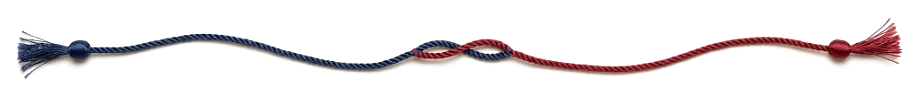
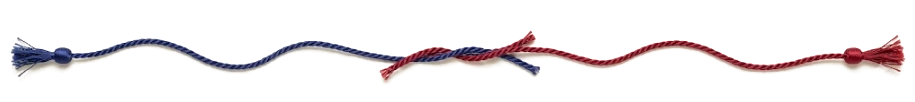
청실홍실 — 비단 결 그대로, 가운데는 매듭 말고 느슨히 감긴 꼬임(6번째 줄 결)

Changed region(s): [[0.0, 0.1765, 1.0, 0.8235], [0.0, 0.2941, 0.0306, 0.3235]]

diff --git a/src/components/InyeonThread.tsx b/src/components/InyeonThread.tsx
@@ -5,12 +5,12 @@ const silk = (g: G) => g === "m" ? "#3b4a8f" : g === "f" ? "#b0233f" : "#a08550"
 const label = (g: G, other: G) => g && g === other ? "도반" : g === "m" ? "청실" : g === "f" ? "홍실" : "실";
 
 // 형이 고른 끈 — 왼쪽 청실·오른쪽 홍실이 가운데서 느슨하게 꼬인다. 끝은 둥근 매듭 + 술(「너의 이름은」 끈).
-// 제미나이로 비단 땋은 끈 결로 뽑아 바탕만 걷었다(public/obj/silk-cord.webp, 918×106, 바탕 투명)
+// 제미나이로 비단 땋은 끈 결로 뽑아 바탕만 걷었다(public/obj/silk-cord.webp, 915×102, 바탕 투명 — 가운데는 매듭 없이 두 바퀴 반 느슨히 감김(형: 6번째 줄 결))
 export function SilkKnot({ compact = false }: { compact?: boolean; left?: string; right?: string }) {
   if (compact) {
     // 목록·글 머리의 작은 표 — 같은 끈의 가운데 꼬인 자리만
-    return <svg viewBox="392 34 136 40" className="silk-knot-small" aria-hidden="true">
-      <image href="/obj/silk-cord.webp" width="918" height="106" />
+    return <svg viewBox="372 26 176 56" className="silk-knot-small" aria-hidden="true">
+      <image href="/obj/silk-cord.webp" width="915" height="102" />
     </svg>;
   }
   // eslint-disable-next-line @next/next/no-img-element

diff --git a/src/components/inyeon-thread.css b/src/components/inyeon-thread.css
@@ -5,4 +5,4 @@
 .inyeon-silk-names>span {display:flex;align-items:center;gap:8px;min-width:0;overflow:hidden;text-overflow:ellipsis;white-space:nowrap}
 .inyeon-silk-names small {font:500 10px/1.2 sans-serif;letter-spacing:.12em}
 .silk-match-badge {display:inline-flex;vertical-align:middle;align-items:center;justify-content:center;width:40px;height:14px;flex-shrink:0;margin-left:5px}
-.silk-knot-small {width:40px;height:9px;display:block}
+.silk-knot-small {width:40px;height:13px;display:block}
